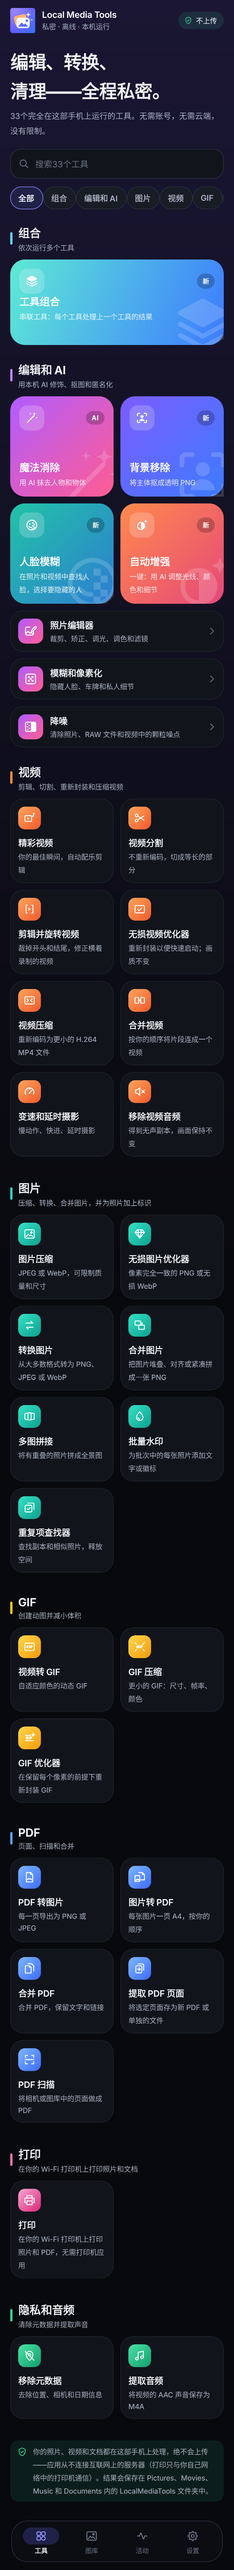
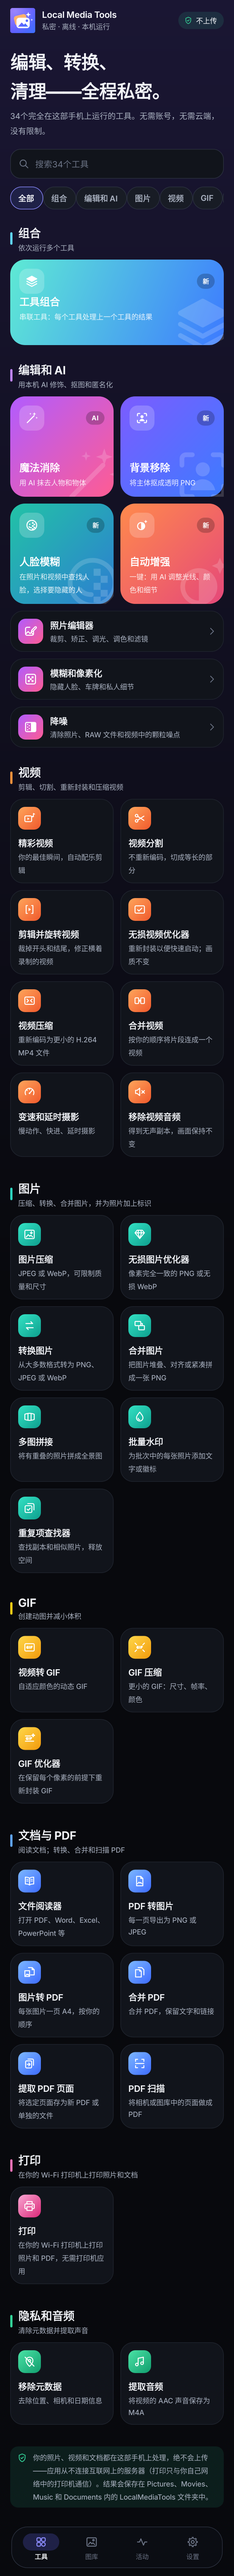
Release 1.11.0: a file reader for the documents Android can't open
PDF, Word (DOCX, DOC), Excel (XLSX, XLS), PowerPoint (PPTX, PPT), OpenDocument, RTF, EPUB,
CSV/TSV, Markdown, HTML and text, read on the phone; measured on 1,972 real files against
Apache Tika and LibreOffice (see README and buildtools/docs). Screenshots of the reader.

Claude-Session: https://claude.ai/code/session_01QWYGSgXqX2miYZz9W37Det

diff --git a/app/src/roboTest/kotlin/com/localmediatools/robo/ReaderUiTest.kt b/app/src/roboTest/kotlin/com/localmediatools/robo/ReaderUiTest.kt
@@ -184,7 +184,8 @@ class ReaderUiTest {
         // On to page 2 (page 1 starts with the author's address and phone, not for the README picture).
         repeat(8) { s.content!!.searchStep(true); idle() }
         assertTrue(s.searchStatus.toString(), s.searchStatus.toString().startsWith("9 of"))
-        waitFor("pages 2 and 3 drawn") { pages.isDrawn(1) && pages.isDrawn(2) }
+        // Pages are asked for as they are drawn on screen.
+        waitFor("pages 2 and 3 drawn") { render(a, "4_pdf_search"); pages.isDrawn(1) && pages.isDrawn(2) }
         render(a, "4_pdf_search")
     }
 
